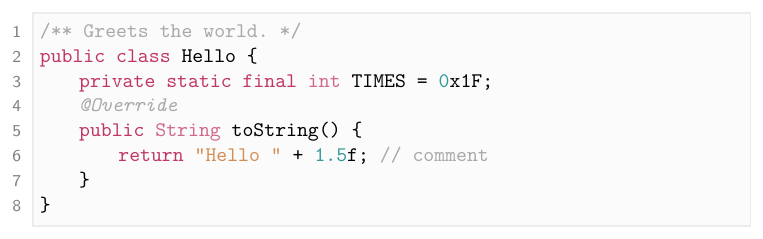
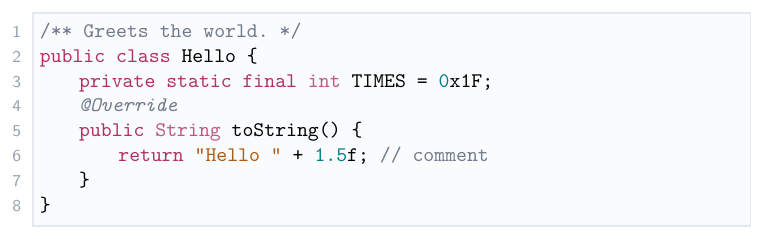
Source code GADR: renders with xlistings 1.1.1 and code-link from TeX Live 2026

diff --git a/source-code-listings.md b/source-code-listings.md
@@ -51,7 +51,7 @@ Source: [`xlistings.tex`](source-code-listings/xlistings.tex)
 - Good, because line numbers are excluded from copying (`accsupp`), and listings get a light background box.
 - Bad, because the `minted` environment is not a drop-in replacement: its options are `listings` keys (`numbers=left` instead of `linenos`, `escapeinside={|}{|}` instead of `escapeinside=||`), and `\setminted`, `\usemintedstyle`, `\inputminted`, and the `listing` float are missing.
 - Bad, because it defines 24 languages (no BibTeX, for example), and its highlighting stays keyword-based: the inside of a Python f-string is a plain string.
-- Bad, because it is new (version 1.0.0 of 2026-08, in TeX Live 2026): a language that the `minted` environment loads on first use loses some of its macros, so Java and YAML need `\LoadLanguages{java,yaml}` in the preamble ([issue 15](https://github.com/EagleoutIce/xlistings/issues/15)).
+- Bad, because it is new (version 1.0.0 of 2026-08, 1.1.1 of 2026-11 in TeX Live 2026): a language that the `minted` environment loads on first use loses some of its macros, so Java and YAML need `\LoadLanguages{java,yaml}` in the preamble ([issue 15](https://github.com/EagleoutIce/xlistings/issues/15)).
 
 ### `fancyvrb`
 
@@ -73,4 +73,4 @@ Source: [`code-link.tex`](source-code-listings/code-link.tex)
 `code-link` is a companion of `xlistings` by the same author and works with `listings`, `xlistings`, and `minted`.
 `\CodeLinkAnchor{Greeter}` marks a definition (inside a listing through `escapeinside`), and every later occurrence of `Greeter` in a listing becomes a link to it; `\CodeLinkRef{Greeter}` links from the text.
 It suits documents with many listings that refer to each other, such as theses on software.
-Version 1.1.0 is from 2026-11, so it is not yet in every TeX Live 2026 installation and not on Overleaf.
+Version 1.1.0 is from 2026-11: it is in an updated TeX Live 2026, but not on Overleaf, which keeps the snapshot of a TeX Live year.
